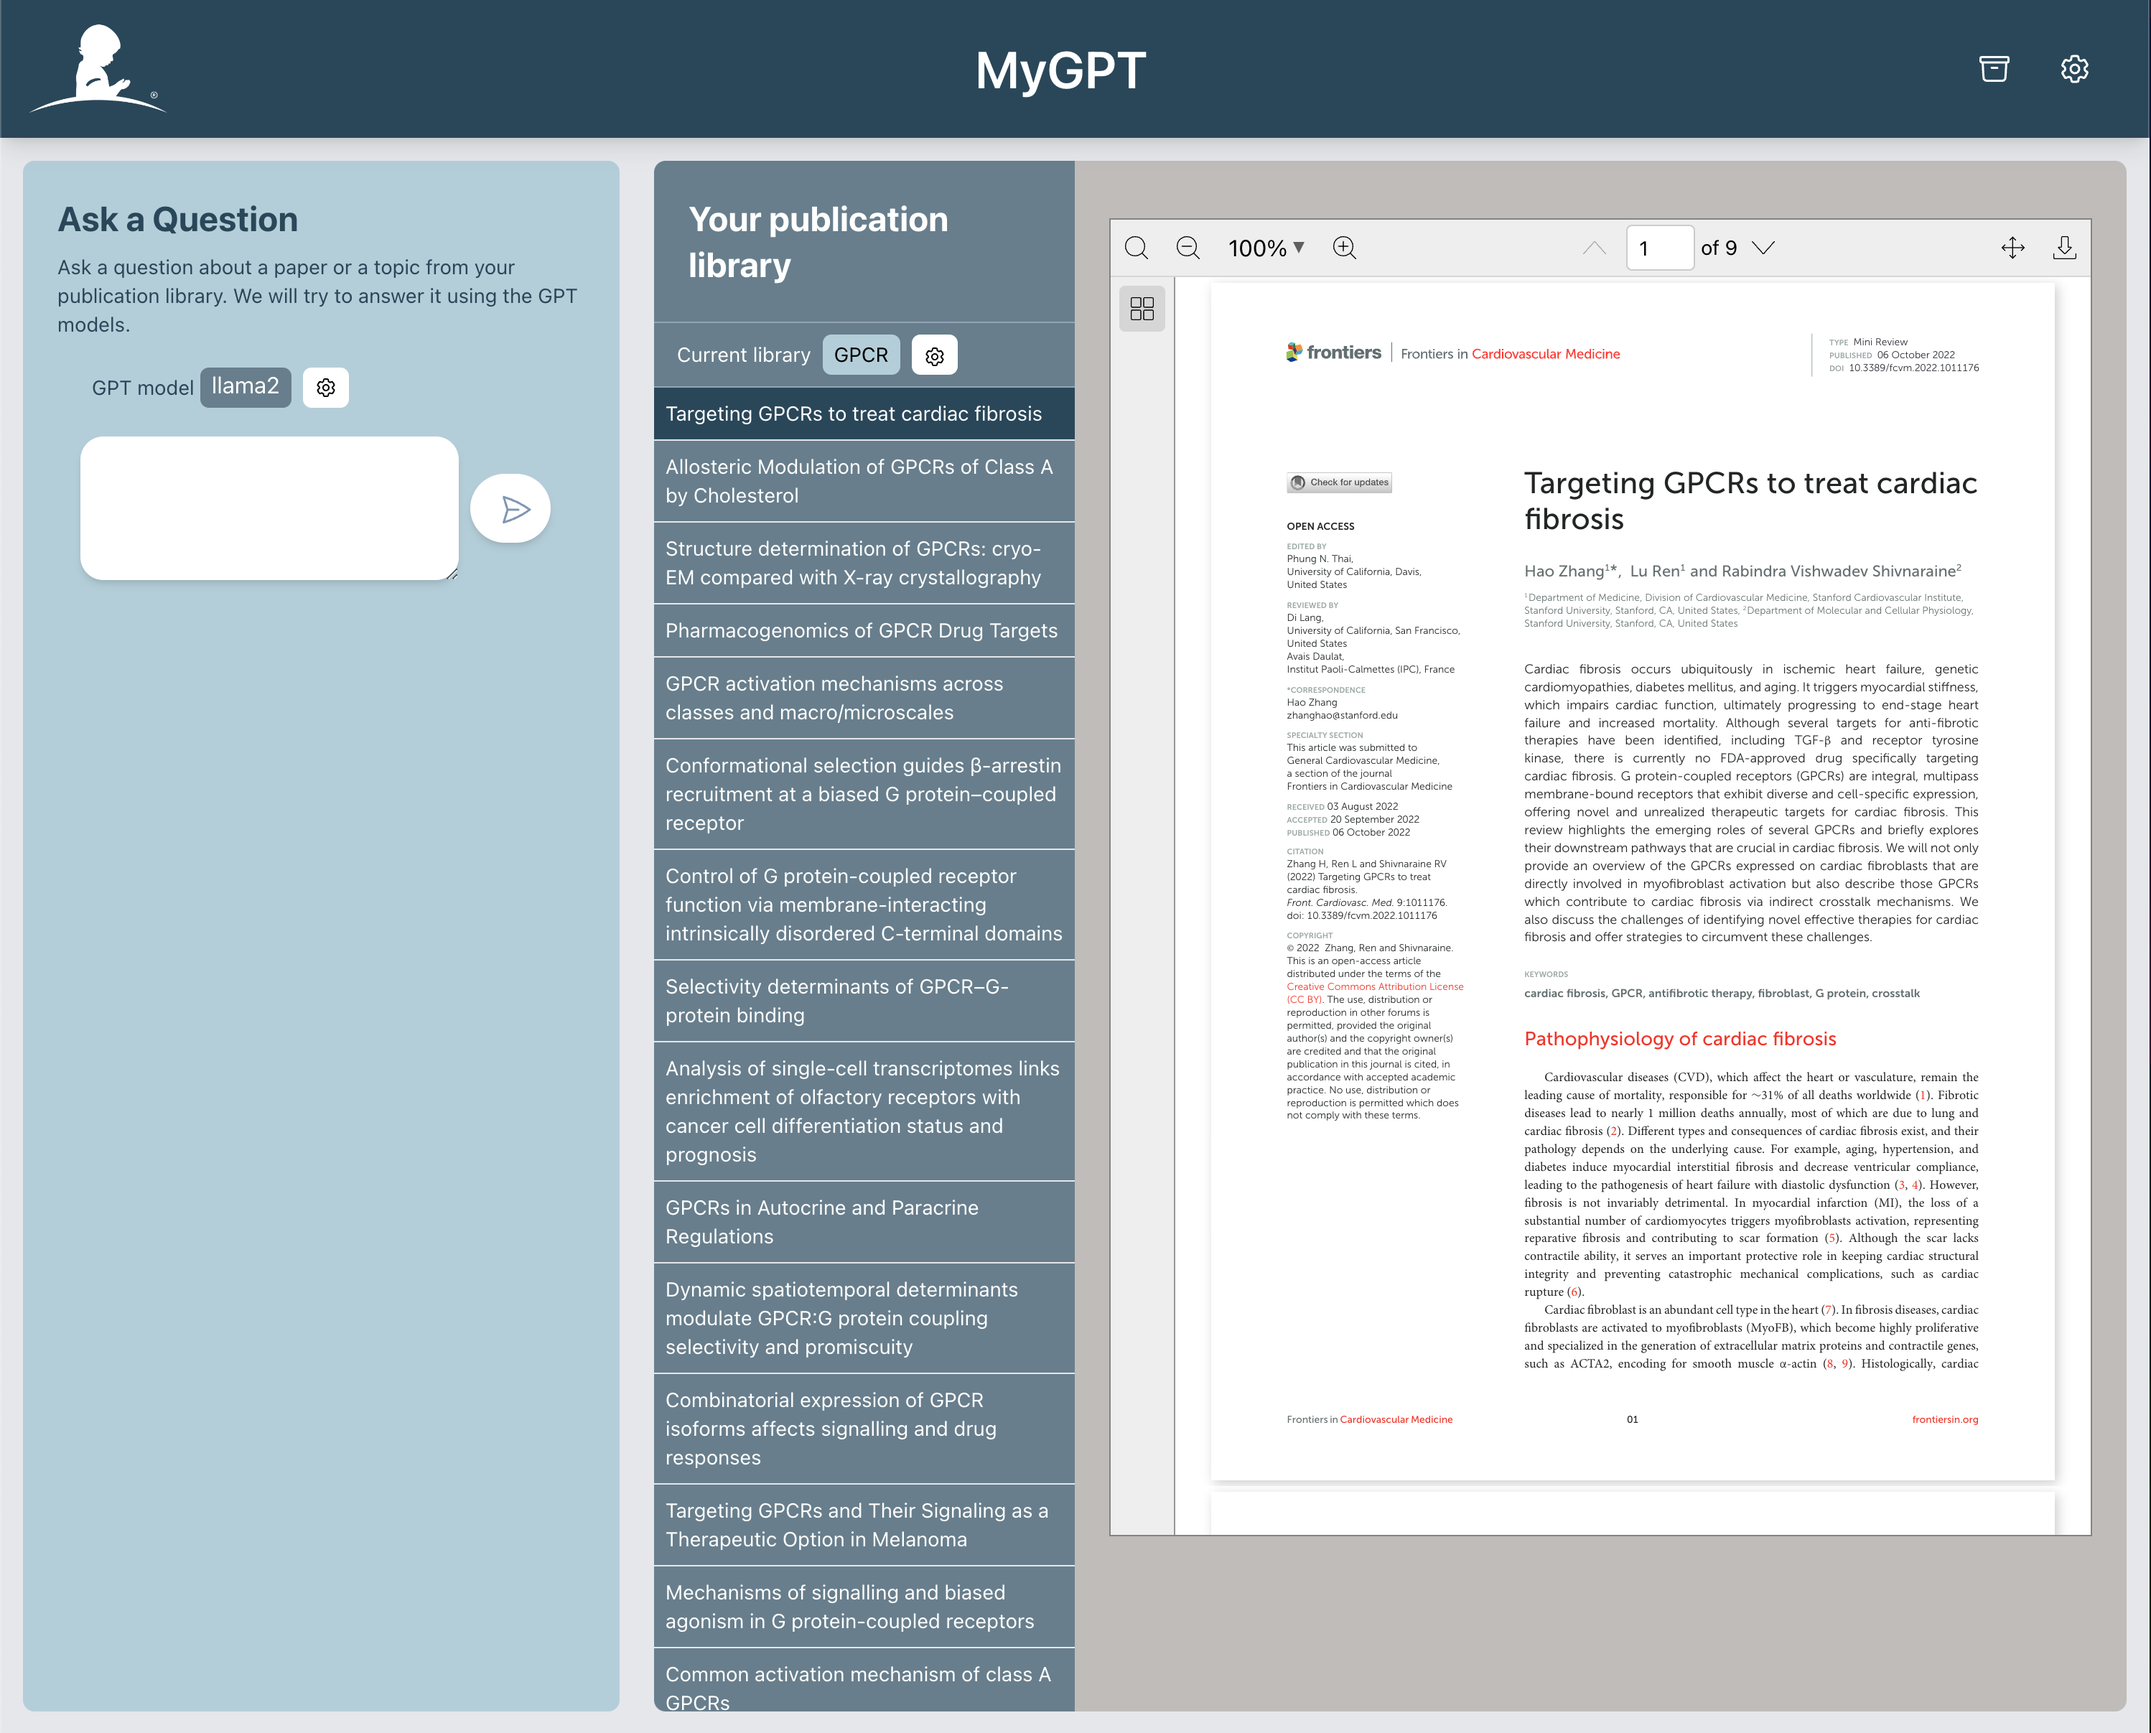
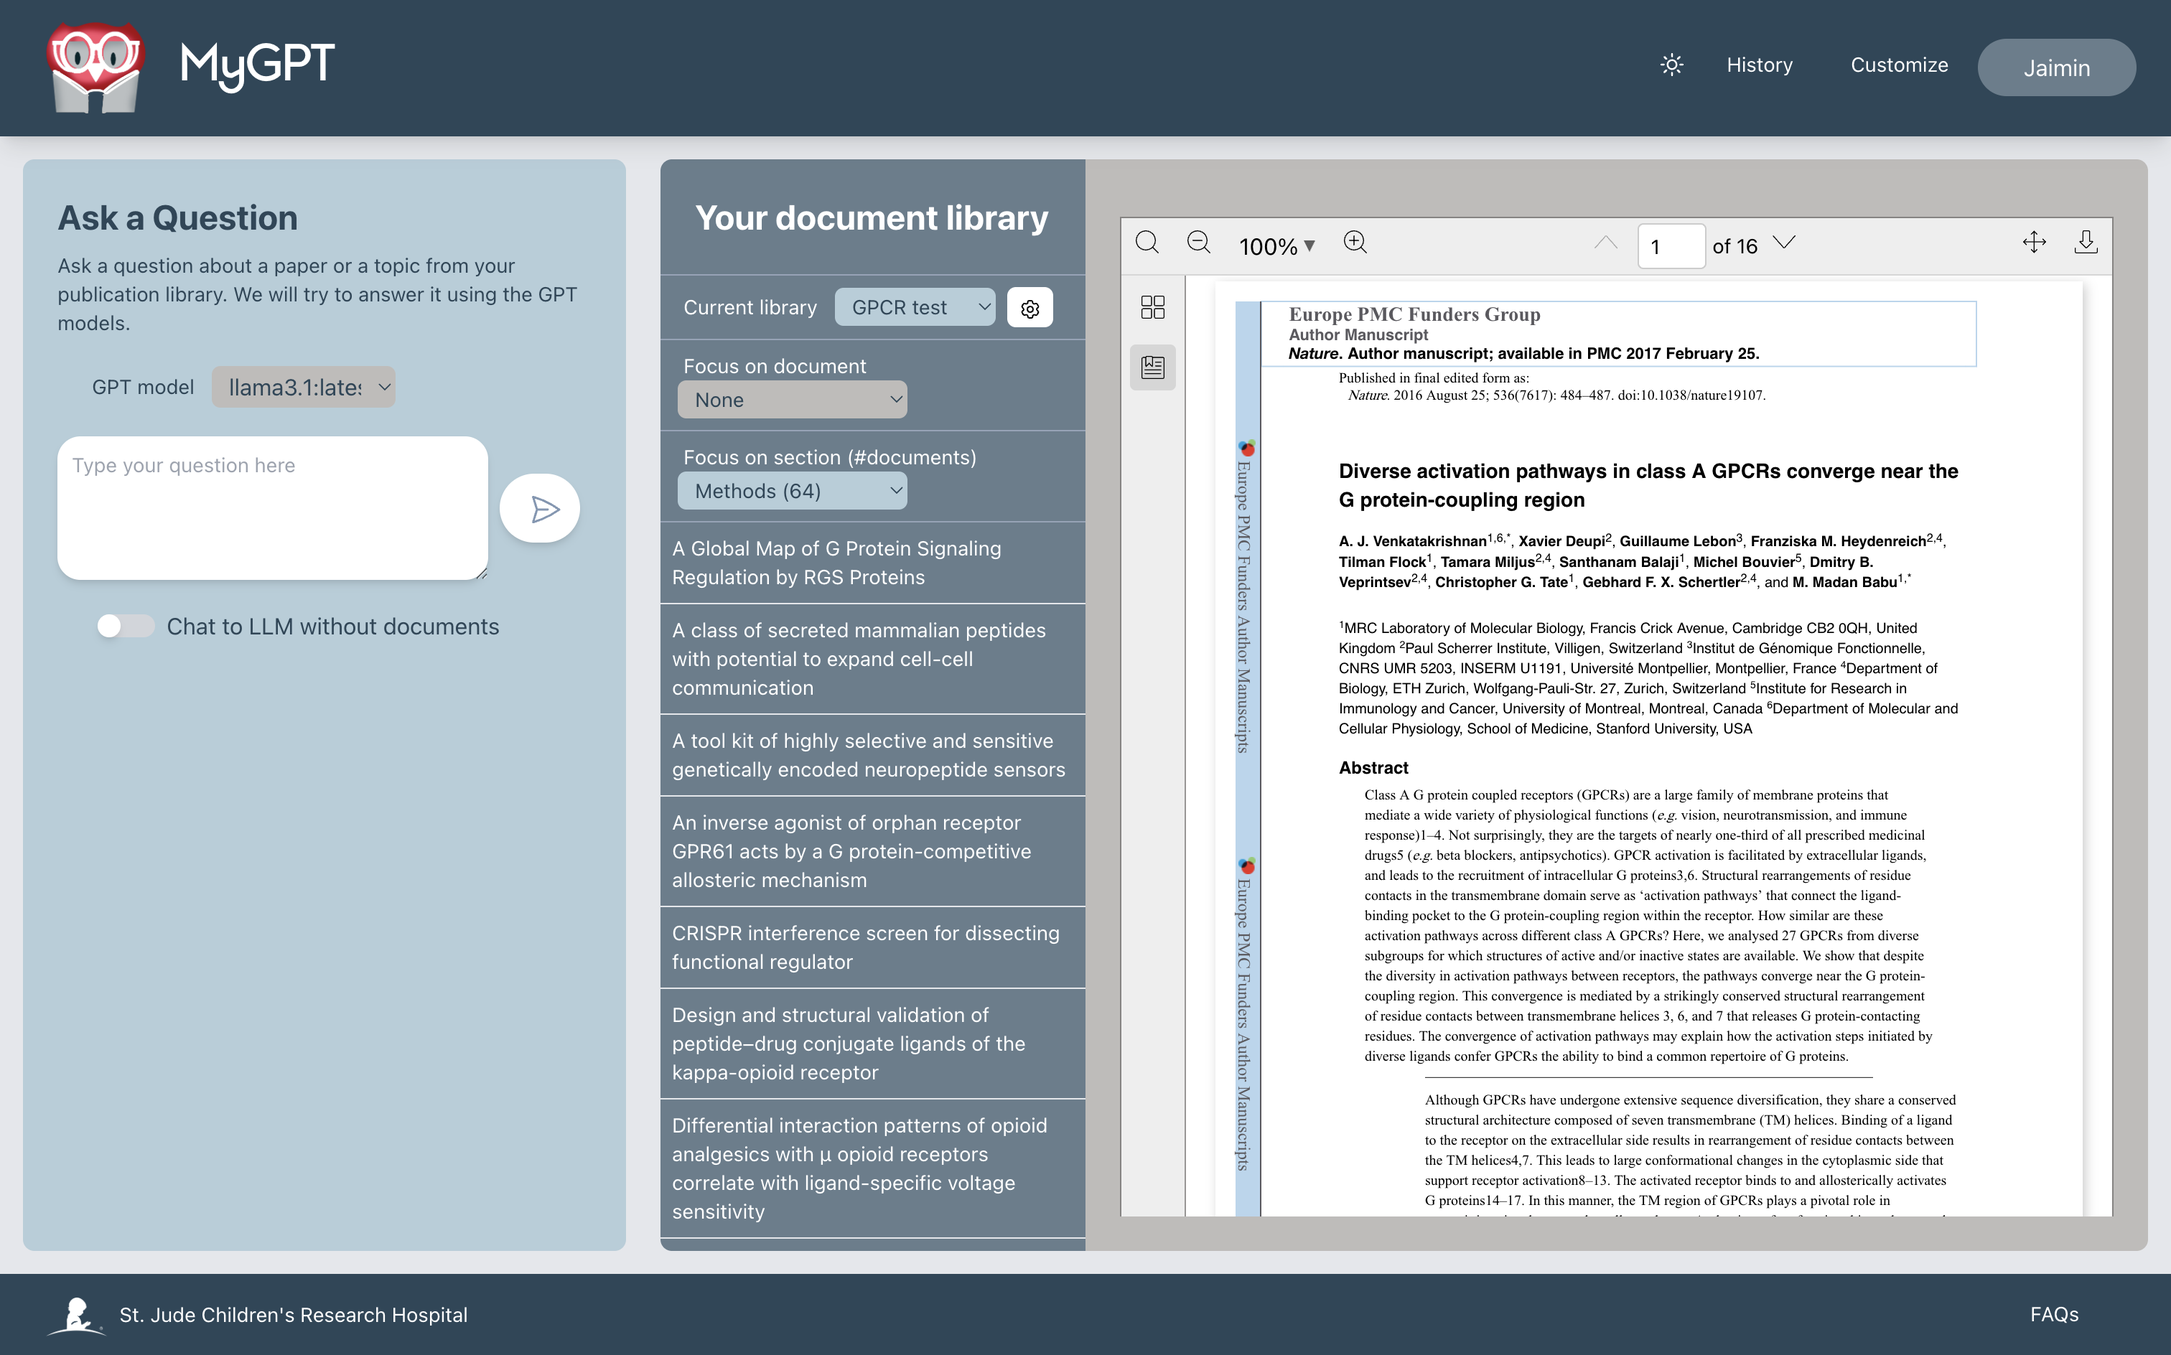
Add MCP server configuration and update Docker setup for grobid service

Changed region(s): [[0.0, 0.0, 1.0, 1.0]]

diff --git a/installation/macOS/README.md b/installation/macOS/README.md
@@ -225,6 +225,61 @@ bash MyGPT/installation/macOS/build_images/create_superuser.sh
 
 You can check backend database at http://localhost:8000/admin/ with username and password you created in above step.
 
+### Run MCP server
+To run MCP server, run following command if you are using pre-built docker images:
+
+```
+cd MyGPT/installation/macOS/prebuilt_images/
+bash run_mcp_server.sh
+```
+Or run following command if you are building docker images:
+
+```
+bash MyGPT/installation/macOS/build_images/run_mcp_server.sh
+```
+This will start the MCP server and you can access it at http://localhost:5001/sse/
+
+### Configure MCP Client in MyGPT
+
+To setup MCP client in MyGPT, you need to stop the frontend, and then update the environment variable in the `.env` file.
+To stop the frontend, run following command if you are using pre-built docker images:
+
+```cd MyGPT/installation/macOS/prebuilt_images/
+bash stop_docker.sh
+```
+Or run following command if you are building docker images:
+
+```
+bash MyGPT/installation/macOS/build_images/stop_docker.sh
+```
+
+Change following line in `.env` file:
+
+```
+REACT_APP_MCP_SERVER_URL = 'http://localhost:5001/sse'
+REACT_APP_MCP_SHOW_MCP_MENU=true
+```
+
+You can change MCP server URL to your custom MCP server URL if you are using a different server.
+
+Then, you can start the frontend again by running following command if you are using pre-built docker images:
+
+```cd MyGPT/installation/macOS/prebuilt_images/
+bash run_docker.sh
+```	
+Or run following command if you are building docker images:
+
+```
+bash MyGPT/installation/macOS/build_images/run_docker.sh
+```
+
+Once the frontend is running, you can access it at http://localhost:3000/ and you should see MCP menu in the settings page.
+Select the MCP tools you want to use from the customization page.
+
+Once you select the tools, go to the main page and select LLM with tool support and you should see the MCP tools in the chat interface.
+
+<img src="../../images/MyGPT_MCP_UI.png?raw=true" width="1000px">
+
 ### stop docker containers
 
 To stop docker containers, run following command if you are using pre-built docker images:
